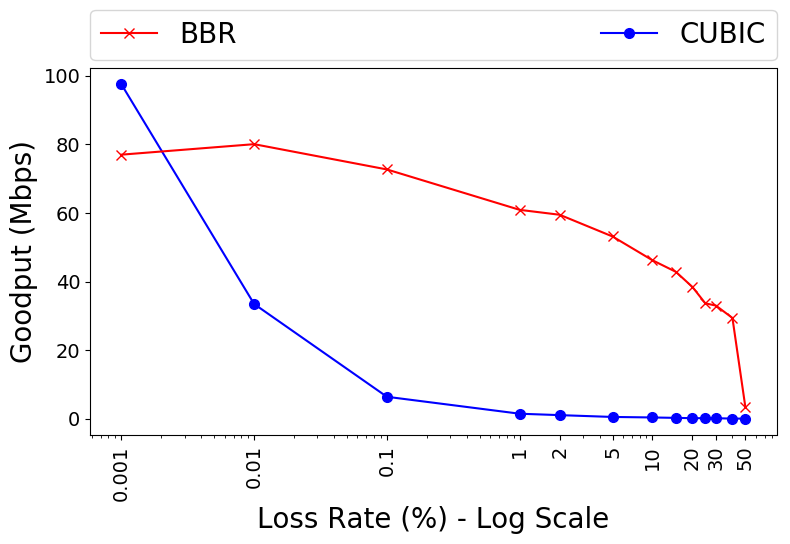
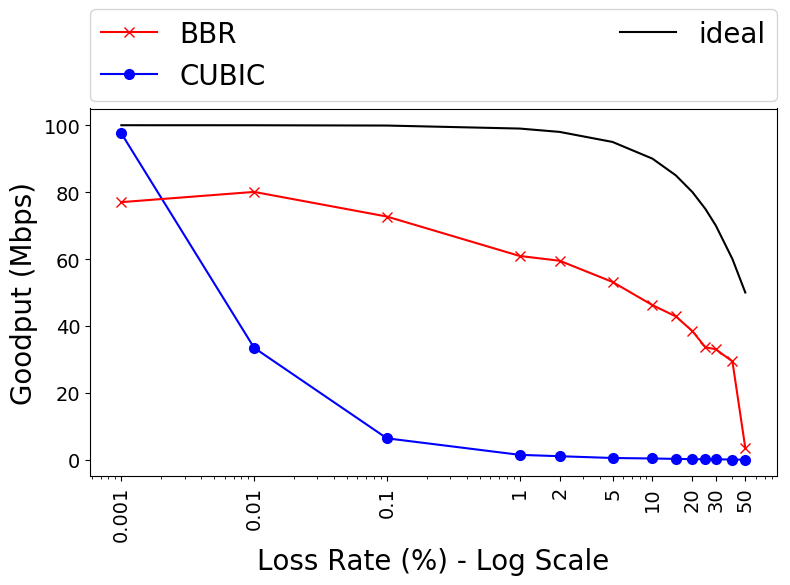
Add ideal line to fig8

diff --git a/mahimahi/bbr_plot.py b/mahimahi/bbr_plot.py
@@ -176,12 +176,19 @@ def make_figure_8_plot(logfile):
     plt.plot(bbr['loss'], bbr['goodput'], color='red', linestyle='solid', marker='x',
              markersize=7, label='BBR')
 
+    # Plot ideal line of (1-lossRate * BW)
+    ideal = {}
+    ideal['loss'] = cubic['loss']
+    ideal['goodput'] = [(1 - (x / 100.0)) * 100 for x in ideal['loss']]
+
+    plt.plot(ideal['loss'], ideal['goodput'], color='black', linestyle='solid', label='ideal')
+
     plt.xscale('log')
 
     plot_titles(plt, xaxis="Loss Rate (%) - Log Scale", yaxis="Goodput (Mbps)")
 
     apply_axes_formatting(axes, deduplicate_xmark_ticks(xmark_ticks))
-    plot_legend(plt, axes)
+    plot_legend(plt, axes, ncol=3)
 
     save_figure(plt, name="figures/figure8.png")
 

diff --git a/mahimahi/server.py b/mahimahi/server.py
@@ -5,6 +5,7 @@ from multiprocessing import Process
 import os
 import select
 import socket
+import sys
 import time
 
 
@@ -59,7 +60,7 @@ class Server(Process):
         except Exception as e:
             debug_print_error("Binding Error: " + str(e))
             self.outQ.put((None, e))
-            return
+            sys.exit(-1)
 
         s.listen(1)  # only have 1 connection
         debug_print(str(os.getppid()) + ":" + str(os.getpid()) +
